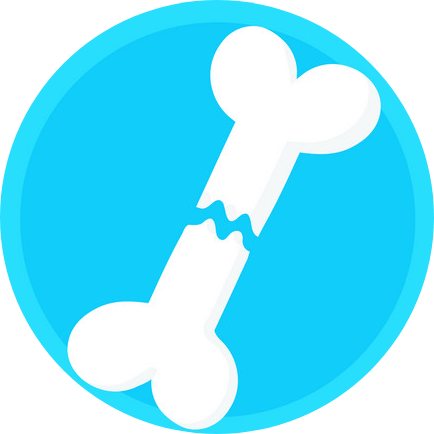
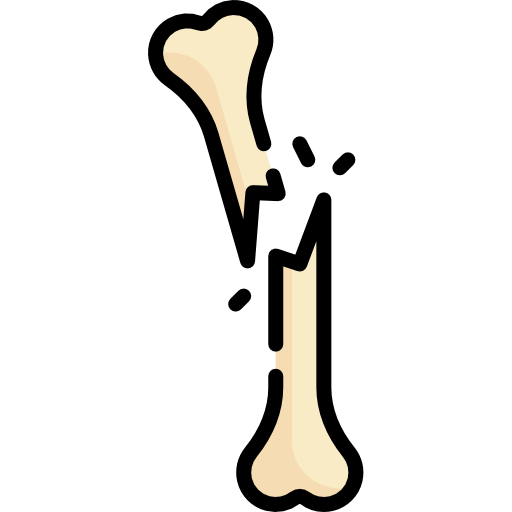
Update First Aid Styling and Images

diff --git a/src/app/firstAid/InjuriesList.js b/src/app/firstAid/InjuriesList.js
@@ -1,11 +1,12 @@
 import React, { Component } from 'react';
-import { ScrollView, TouchableOpacity } from 'react-native';
+import { ScrollView, View } from 'react-native';
 import { Actions } from 'react-native-router-flux';
 import { connect } from 'react-redux';
 import { InjuryButtonPressed } from '../../actions';
 import InjuryButton from './InjuryButton';
 import data from './metadata.json';
 import { Colors } from '../../constants';
+import { theme } from 'galio-framework';
 
 class InjuriesList extends Component {
   onButtonPress(text) {
@@ -21,104 +22,105 @@ class InjuriesList extends Component {
   render() {
     const { INJURY_BUTTON, INJURY_BUTTON_TWO } = Colors;
     return (
-      <ScrollView>
-        <TouchableOpacity onPress={this.onButtonPress.bind(this, 'cpr')}>
+      <ScrollView contentContainerStyle={{ paddingTop: theme.SIZES.BASE }}>
+        <View>
           <InjuryButton
             src={'cpr'}
-            backgroundClr={INJURY_BUTTON}
+            backgroundClr="#63B8B1"
             txt={data.cpr.arValue}
+            onPress={this.onButtonPress.bind(this, 'cpr')}
           />
-        </TouchableOpacity>
+        </View>
 
-        <TouchableOpacity onPress={this.onButtonPress.bind(this, 'bleeding')}>
+        <View>
           <InjuryButton
             src={'bleeding'}
-            backgroundClr={INJURY_BUTTON_TWO}
+            backgroundClr="#FFE0B2"
             txt={data.bleeding.arValue}
+            onPress={this.onButtonPress.bind(this, 'bleeding')}
           />
-        </TouchableOpacity>
+        </View>
 
-        <TouchableOpacity onPress={this.onButtonPress.bind(this, 'cuts')}>
+        <View>
           <InjuryButton
             src={'cuts'}
-            backgroundClr={INJURY_BUTTON}
+            backgroundClr="#B9917C"
             txt={data.cuts.arValue}
+            onPress={this.onButtonPress.bind(this, 'cuts')}
           />
-        </TouchableOpacity>
+        </View>
 
-        <TouchableOpacity
-          onPress={this.onButtonPress.bind(this, 'head_injury')}
-        >
+        <View>
           <InjuryButton
             src={'head_injury'}
-            backgroundClr={INJURY_BUTTON_TWO}
+            backgroundClr="#E5C7BD"
             txt={data.head_injury.arValue}
+            onPress={this.onButtonPress.bind(this, 'head_injury')}
           />
-        </TouchableOpacity>
+        </View>
 
-        <TouchableOpacity onPress={this.onButtonPress.bind(this, 'burns')}>
+        <View>
           <InjuryButton
             src={'burns'}
-            backgroundClr={INJURY_BUTTON}
+            backgroundClr="#F66775"
             txt={data.burns.arValue}
+            onPress={this.onButtonPress.bind(this, 'burns')}
           />
-        </TouchableOpacity>
+        </View>
 
-        <TouchableOpacity
-          onPress={this.onButtonPress_.bind(this, 'eye_injury')}
-        >
+        <View>
           <InjuryButton
             src={'eye_injury'}
-            backgroundClr={INJURY_BUTTON_TWO}
+            backgroundClr="#CCCBCB"
             txt={data.eye_injury.arValue}
+            onPress={this.onButtonPress_.bind(this, 'eye_injury')}
           />
-        </TouchableOpacity>
+        </View>
 
-        <TouchableOpacity onPress={this.onButtonPress.bind(this, 'fractures')}>
+        <View>
           <InjuryButton
             src={'fractures'}
-            backgroundClr={INJURY_BUTTON}
+            backgroundClr="#FAEBC7"
             txt={data.fractures.arValue}
+            onPress={this.onButtonPress.bind(this, 'fractures')}
           />
-        </TouchableOpacity>
+        </View>
 
-        <TouchableOpacity
-          onPress={this.onButtonPress.bind(this, 'tooth_injury')}
-        >
+        <View>
           <InjuryButton
             src={'tooth_injury'}
-            backgroundClr={INJURY_BUTTON_TWO}
+            backgroundClr="#DB527D"
             txt={data.tooth_injury.arValue}
+            onPress={this.onButtonPress.bind(this, 'tooth_injury')}
           />
-        </TouchableOpacity>
+        </View>
 
-        <TouchableOpacity
-          onPress={this.onButtonPress.bind(this, 'nosebleeding')}
-        >
+        <View>
           <InjuryButton
             src={'nosebleeding'}
-            backgroundClr={INJURY_BUTTON}
+            backgroundClr="#FFE0B2"
             txt={data.nosebleeding.arValue}
+            onPress={this.onButtonPress.bind(this, 'nosebleeding')}
           />
-        </TouchableOpacity>
+        </View>
 
-        <TouchableOpacity onPress={this.onButtonPress.bind(this, 'seizure')}>
+        <View>
           <InjuryButton
             src={'seizure'}
-            backgroundClr={INJURY_BUTTON_TWO}
+            backgroundClr="#F6494C"
             txt={data.seizure.arValue}
+            onPress={this.onButtonPress.bind(this, 'seizure')}
           />
-        </TouchableOpacity>
+        </View>
 
-        <TouchableOpacity
-          onPress={this.onButtonPress_.bind(this, 'chemical_poisoning')}
-        >
+        <View>
           <InjuryButton
             src={'chemical_poisoning'}
-            backgroundClr={INJURY_BUTTON}
+            backgroundClr="#B289C9"
             txt={data.chemical_poisoning.arValue}
+            onPress={this.onButtonPress_.bind(this, 'chemical_poisoning')}
           />
-        </TouchableOpacity>
+        </View>
       </ScrollView>
     );
   }

diff --git a/src/app/firstAid/InjuryButton.js b/src/app/firstAid/InjuryButton.js
@@ -1,19 +1,16 @@
 import React from 'react';
-import { StyleSheet, Text, View, Image } from 'react-native';
+import { StyleSheet, Text, View, Image, TouchableOpacity } from 'react-native';
 import { Colors, Images } from '../../constants';
+import { theme } from 'galio-framework';
 
 const InjuryButton = (props) => {
   return (
-    <View style={styles.container}>
-      <View style={[styles.button, { backgroundColor: props.backgroundClr }]}>
-        <View style={styles.shadow}>
+    <TouchableOpacity style={[styles.container, styles.button, { backgroundColor: props.backgroundClr }]} onPress={props.onPress}  >
           <Image style={styles.image} source={Images[props.src]} />
-        </View>
         <View style={styles.textContainer}>
           <Text style={styles.text}>{props.txt}</Text>
         </View>
-      </View>
-    </View>
+    </TouchableOpacity>
   );
 };
 
@@ -21,43 +18,35 @@ const styles = StyleSheet.create({
   container: {
     flex: 1,
     justifyContent: 'center',
-    flexDirection: 'row',
+    flexDirection: 'column',
+    marginLeft: 16,
+    marginRight: 16,
+    marginBottom: 16,
+    borderRadius: 30,
   },
   textContainer: {
     flex: 1,
     justifyContent: 'center',
-    alignItems: 'center'
+    alignItems: 'center',
   },
   text: {
     fontSize: 40,
-    color: Colors.BLACK,
+    color: "white",
     textAlign: 'center',
     fontWeight: 'bold',
     margin: 10,
-    textShadowOffset: { width: 2, height: 2 },
-    textShadowRadius: 1,
-    textShadowColor: Colors.WHITE
   },
   button: {
-    marginLeft: 16,
-    marginRight: 16,
-    marginBottom: 8,
-    marginTop: 8,
     flex: 1,
-    width: 400,
     height: 240,
-    overflow: 'hidden',
     justifyContent: 'center',
     alignItems: 'center',
-    shadowColor: Colors.WHITE,
-    shadowOffset: {
-      width: 0,
-      height: 2
-    },
-    shadowOpacity: 0.25,
-    shadowRadius: 3.84,
-    elevation: 5,
-    borderRadius: 30
+    borderRadius: 30,
+    shadowColor: theme.COLORS.BLACK,
+    shadowOffset: { width: 0, height: 10 },
+    shadowRadius: 50,
+    shadowOpacity: 0.5,
+    elevation: 10
   },
   image: {
     margin: 10,
@@ -65,20 +54,7 @@ const styles = StyleSheet.create({
     justifyContent: 'center',
     width: 150,
     height: 150,
-    borderRadius: 100
   },
-  shadow: {
-    margin: 20,
-    borderRadius: 100,
-    width: 150,
-    height: 150,
-    justifyContent: 'center',
-    textShadowOffset: { width: 2, height: 2 },
-    textShadowRadius: 1,
-    textShadowColor: Colors.WHITE,
-    shadowOpacity: 0.25,
-    elevation: 5
-  }
 });
 
 export default InjuryButton;

diff --git a/src/app/firstAid/StepIndicator.js b/src/app/firstAid/StepIndicator.js
@@ -54,6 +54,7 @@ export default class StepIndicator extends Component {
           renderItem={this.renderPage}
           onViewableItemsChanged={this.onViewableItemsChanged}
           viewabilityConfig={this.viewabilityConfig}
+          showsVerticalScrollIndicator={false}
         />
       </View>
     );
@@ -91,9 +92,9 @@ const styles = StyleSheet.create({
     paddingHorizontal: 20
   },
   rowItem: {
-    marginVertical: 30, // space between list items
+    marginVertical: '10%', // space between list items
     flex: 1,
-    paddingVertical: 20
+    paddingVertical: '10%'
   },
   body: {
     flex: 1,

diff --git a/src/app/home/UserAndDoctorHome.js b/src/app/home/UserAndDoctorHome.js
@@ -25,7 +25,6 @@ import {
   Card,
   Modal as CustomModal,
   Icon as CustomIcon,
-  SwitchButton
 } from '../../components';
 import axios from 'axios';
 import PubNubReact from 'pubnub-react';
@@ -105,7 +104,6 @@ class UserAndDoctorHome extends Component {
             justifyContent: 'space-around'
           }}
         >
-        <SwitchButton/>
           <Text style={{ fontSize: 18 }}>Send current location?</Text>
           <Switch
             value={this.state.switchValue}

diff --git a/src/app/firstAid/FirstAidDetailsWithButtons.js b/src/app/firstAid/FirstAidDetailsWithButtons.js
@@ -93,7 +93,6 @@ const styles = StyleSheet.create({
     flex: 1,
     alignItems: 'center',
     justifyContent: 'space-around',
-    backgroundColor: Colors.BACKGROUND
   },
   button: {
     marginBottom: 30,
@@ -101,7 +100,6 @@ const styles = StyleSheet.create({
     height: 70,
     alignItems: 'center',
     justifyContent: 'center',
-    backgroundColor: Colors.APP,
     borderRadius: 15
   },
   text: {
